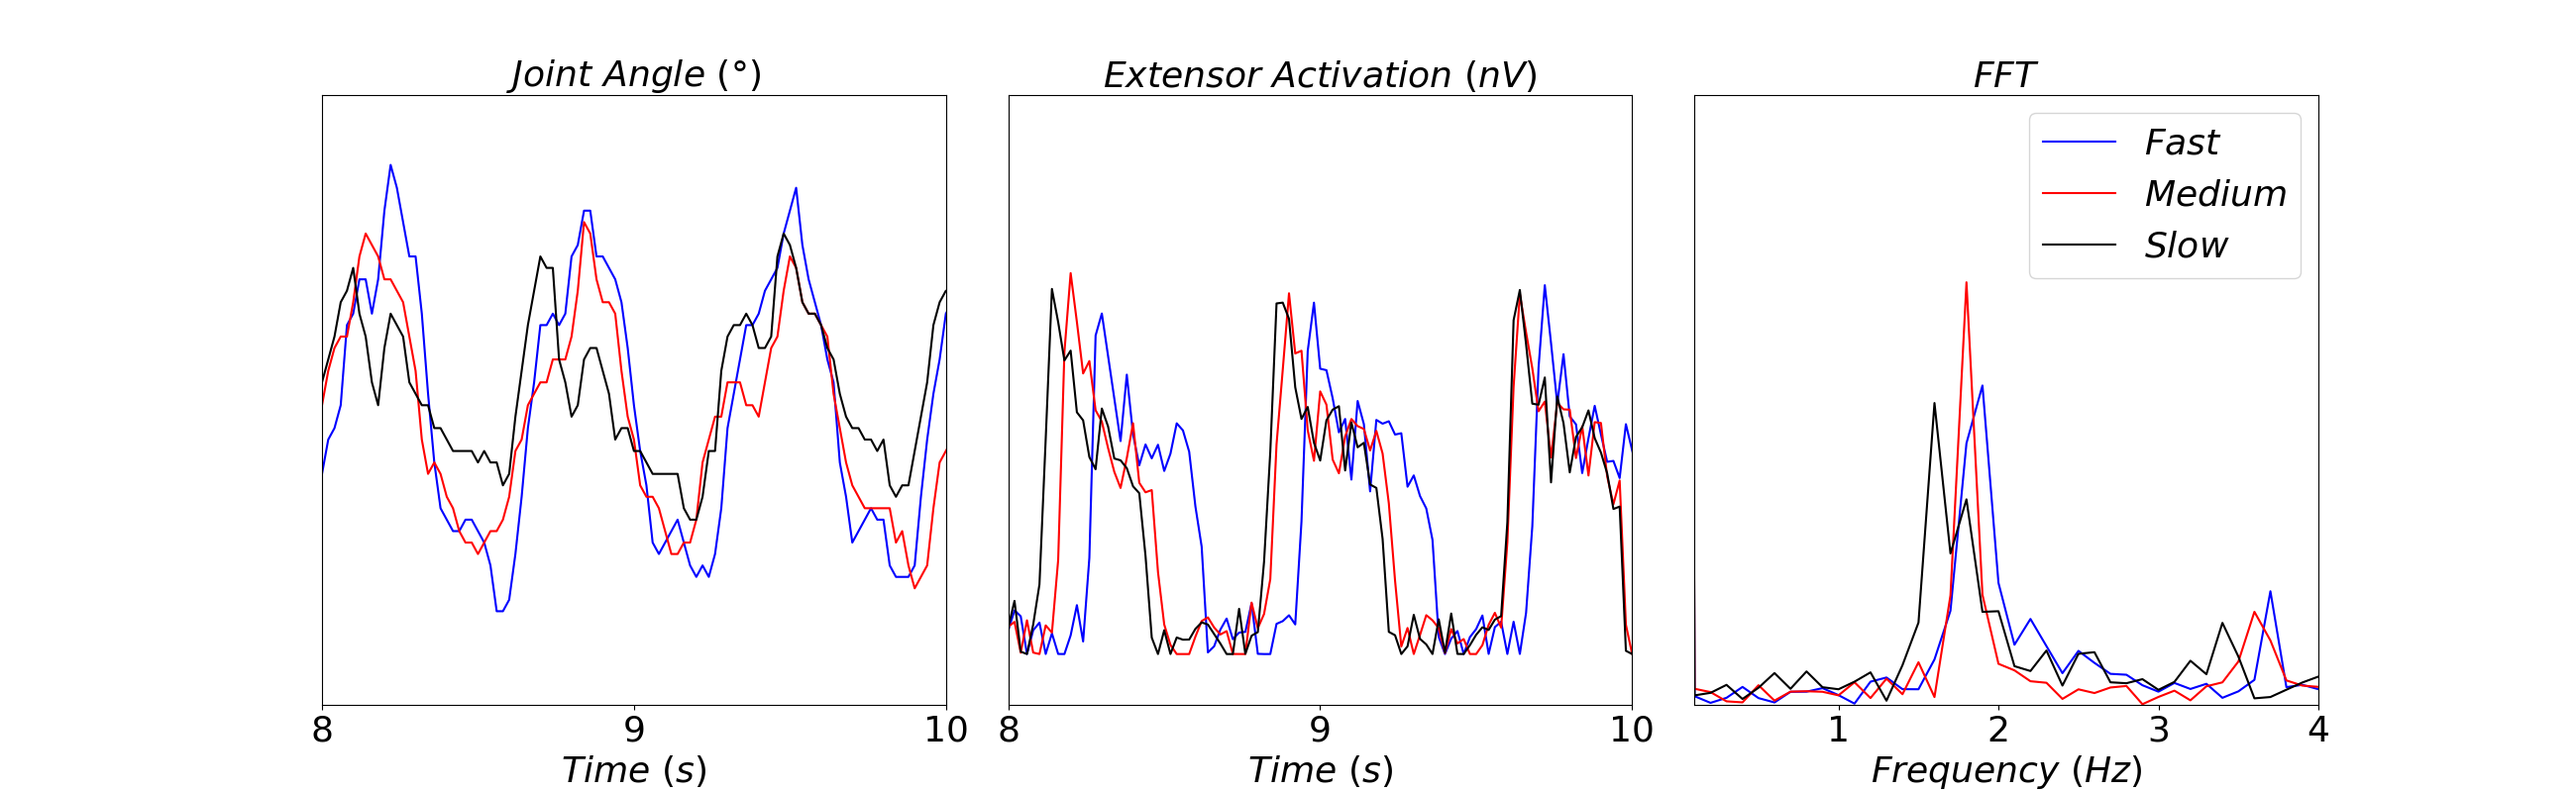
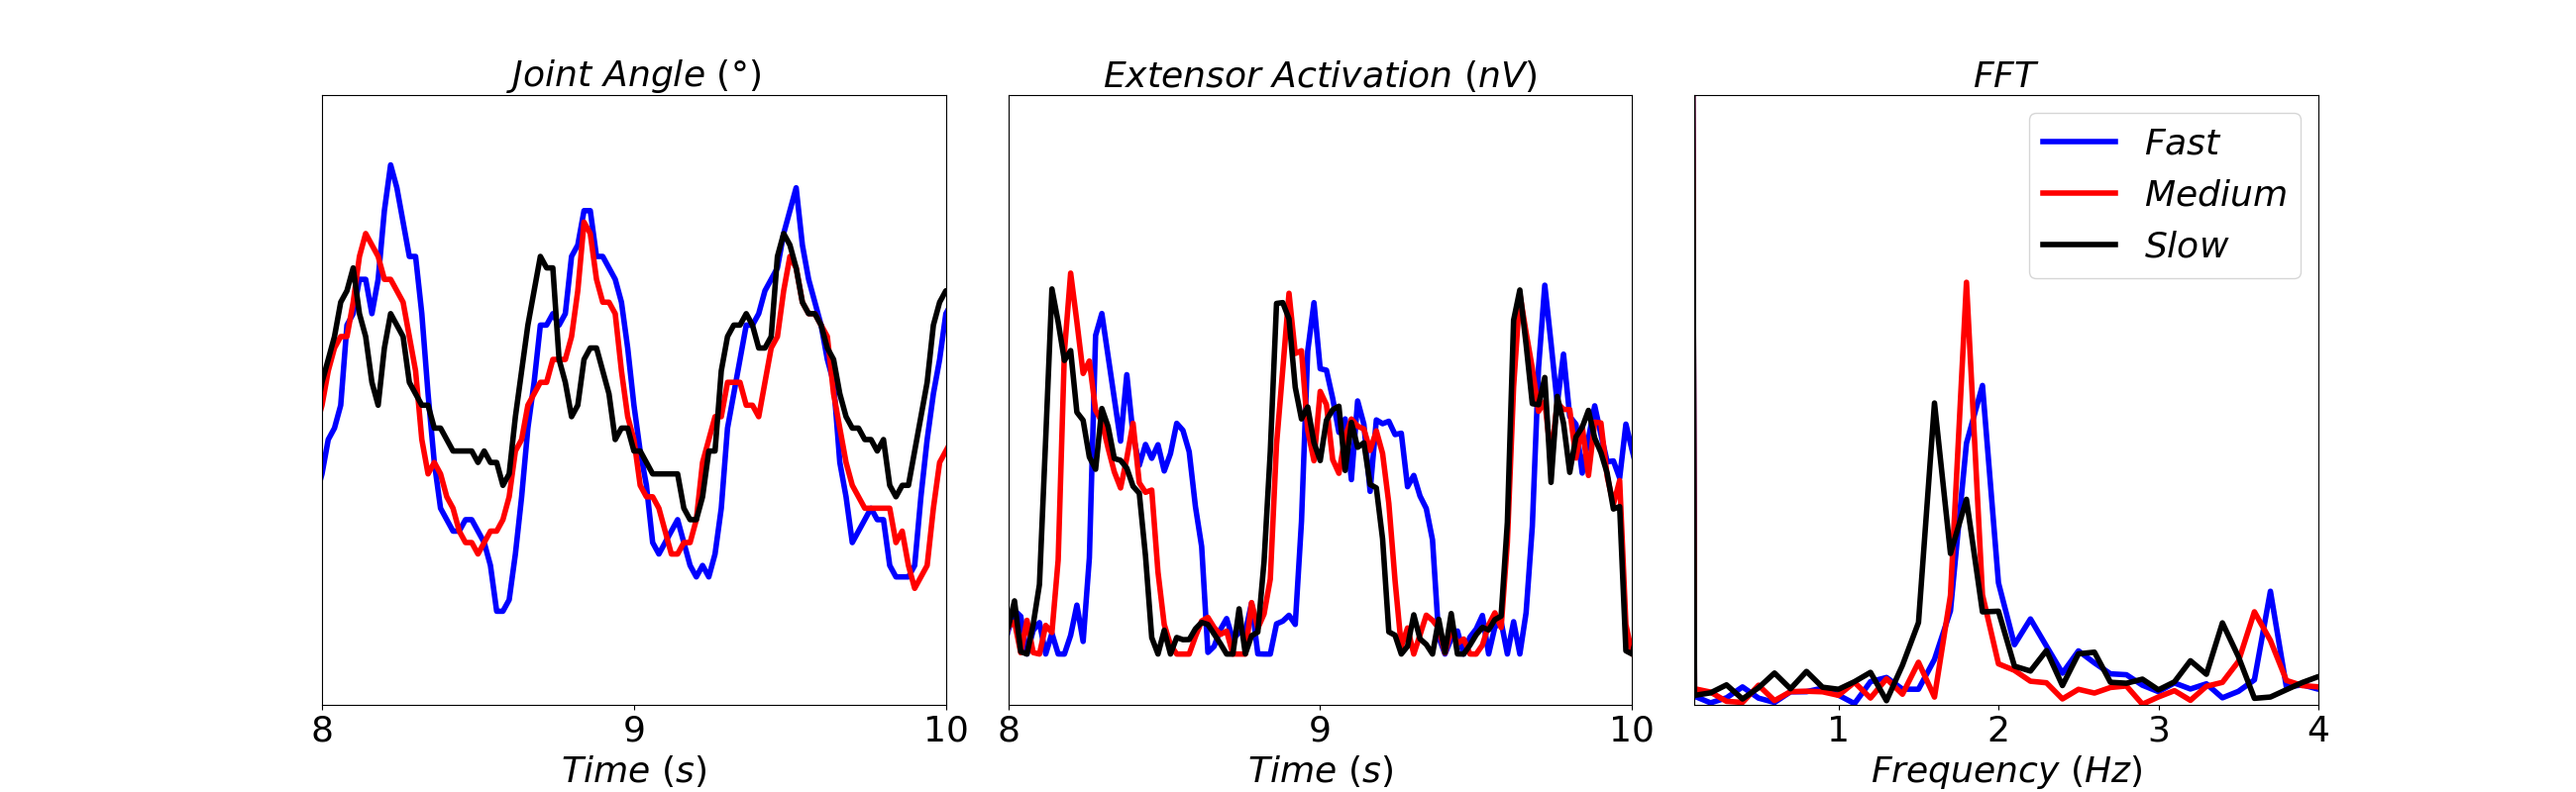
plotting

diff --git a/Python/Speed_Testing/speed_analysis_summary.py b/Python/Speed_Testing/speed_analysis_summary.py
@@ -195,6 +195,7 @@ freq_fast, mag_fast     = compute_fft(fast_signal, fs)
 freq_medium, mag_medium = compute_fft(medium_signal, fs)
 freq_slow, mag_slow     = compute_fft(slow_signal, fs)
 
+linew = 4
 
 plt.subplots_adjust(
     # left=0.1,    # the left side of the subplots of the figure
@@ -205,17 +206,17 @@ plt.subplots_adjust(
     # hspace=0.1   # the amount of height reserved for white space between subplots
 )
 
-axs[0].plot(fast_time_004 + fast_offset_004, fast_angle_004['R_hip_joint']*360/np.pi, color=fast_colour, label='L angle')
-axs[0].plot(medium_time_004 + medium_offset_004, medium_angle_004['R_hip_joint']*360/np.pi, color=medium_colour, label='R angle')
-axs[0].plot(slow_time_004 + slow_offset_004, slow_angle_004['R_hip_joint']*360/np.pi, color=slow_colour, label='R angle')
+axs[0].plot(fast_time_004 + fast_offset_004, fast_angle_004['R_hip_joint']*360/np.pi, color=fast_colour, label='L angle', lw = linew)
+axs[0].plot(medium_time_004 + medium_offset_004, medium_angle_004['R_hip_joint']*360/np.pi, color=medium_colour, label='R angle', lw = linew)
+axs[0].plot(slow_time_004 + slow_offset_004, slow_angle_004['R_hip_joint']*360/np.pi, color=slow_colour, label='R angle', lw = linew)
 axs[0].set_title(r'$Joint~Angle~(\degree)$', fontsize = 26) 
-axs[1].plot(fast_time_005 + fast_offset_005, fast_MN_Activations_005[::20, L_hip_joint_ext_muscle_index], color=fast_colour, label='L activation')
-axs[1].plot(medium_time_005 + medium_offset_005, medium_MN_Activations_005[::20, L_hip_joint_ext_muscle_index], color=medium_colour, label='R activation')
-axs[1].plot(slow_time_005 + slow_offset_005, slow_MN_Activations_005[::20, L_hip_joint_ext_muscle_index], color=slow_colour, label='R activation')
+axs[1].plot(fast_time_005 + fast_offset_005, fast_MN_Activations_005[::20, L_hip_joint_ext_muscle_index], color=fast_colour, label='L activation', lw = linew)
+axs[1].plot(medium_time_005 + medium_offset_005, medium_MN_Activations_005[::20, L_hip_joint_ext_muscle_index], color=medium_colour, label='R activation', lw = linew)
+axs[1].plot(slow_time_005 + slow_offset_005, slow_MN_Activations_005[::20, L_hip_joint_ext_muscle_index], color=slow_colour, label='R activation', lw = linew)
 axs[1].set_title(r'$Extensor~Activation~(nV)$', fontsize = 26)
-axs[2].plot(freq_fast, mag_fast, color = fast_colour, label=r'$Fast$')
-axs[2].plot(freq_medium, mag_medium, color=medium_colour, label=r'$Medium$')
-axs[2].plot(freq_slow, mag_slow, color=slow_colour, label=r'$Slow$')
+axs[2].plot(freq_fast, mag_fast, color = fast_colour, label=r'$Fast$', lw = linew)
+axs[2].plot(freq_medium, mag_medium, color=medium_colour, label=r'$Medium$', lw = linew)
+axs[2].plot(freq_slow, mag_slow, color=slow_colour, label=r'$Slow$', lw = linew)
 axs[2].set_title(r'$FFT$', fontsize = 26)
 
 axs[0].set_xlim(8000,10000)
